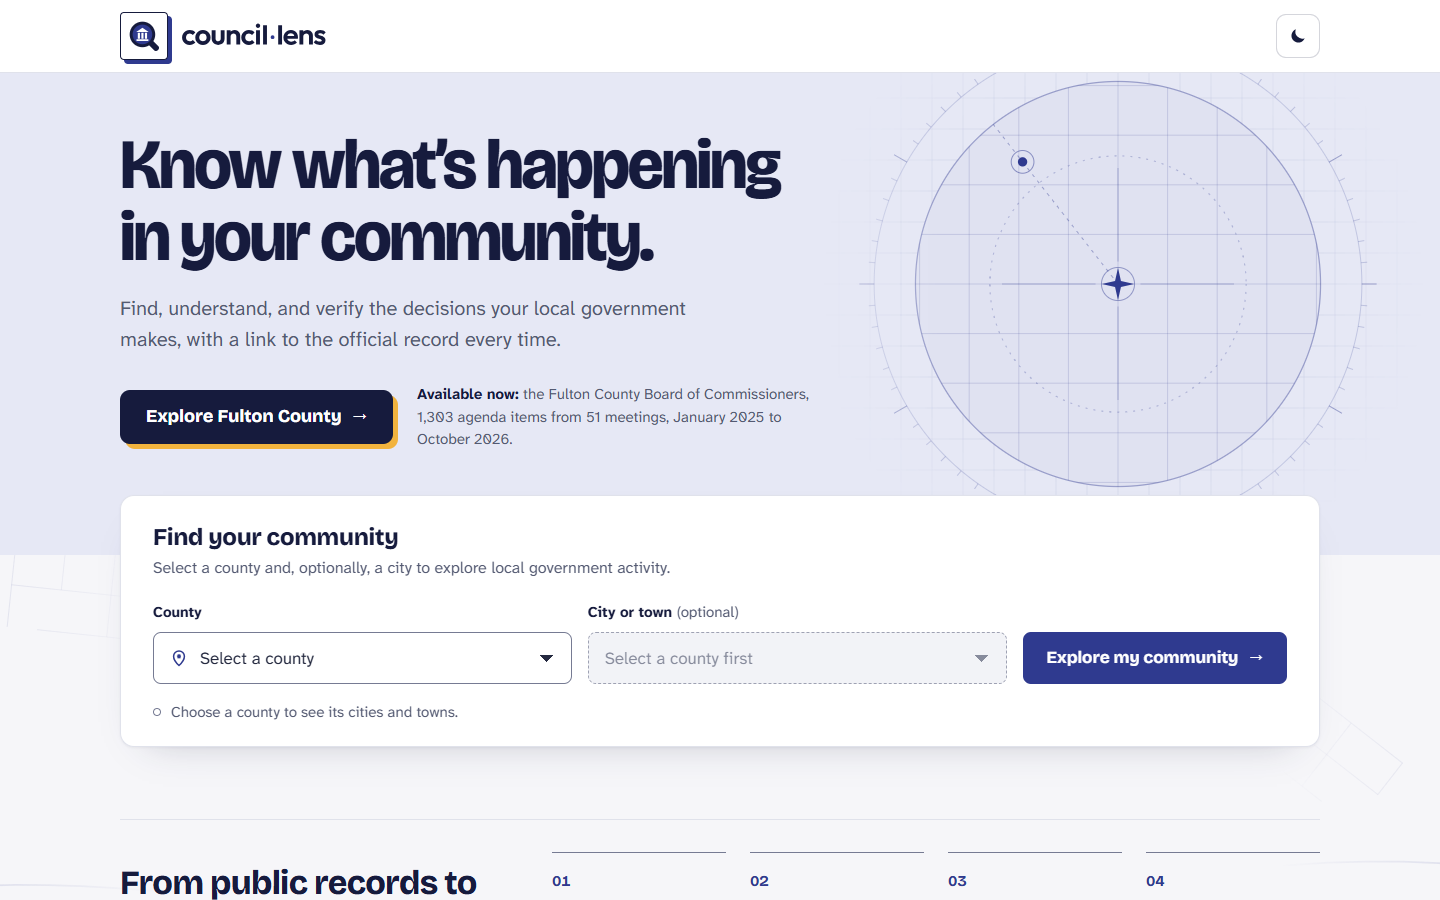
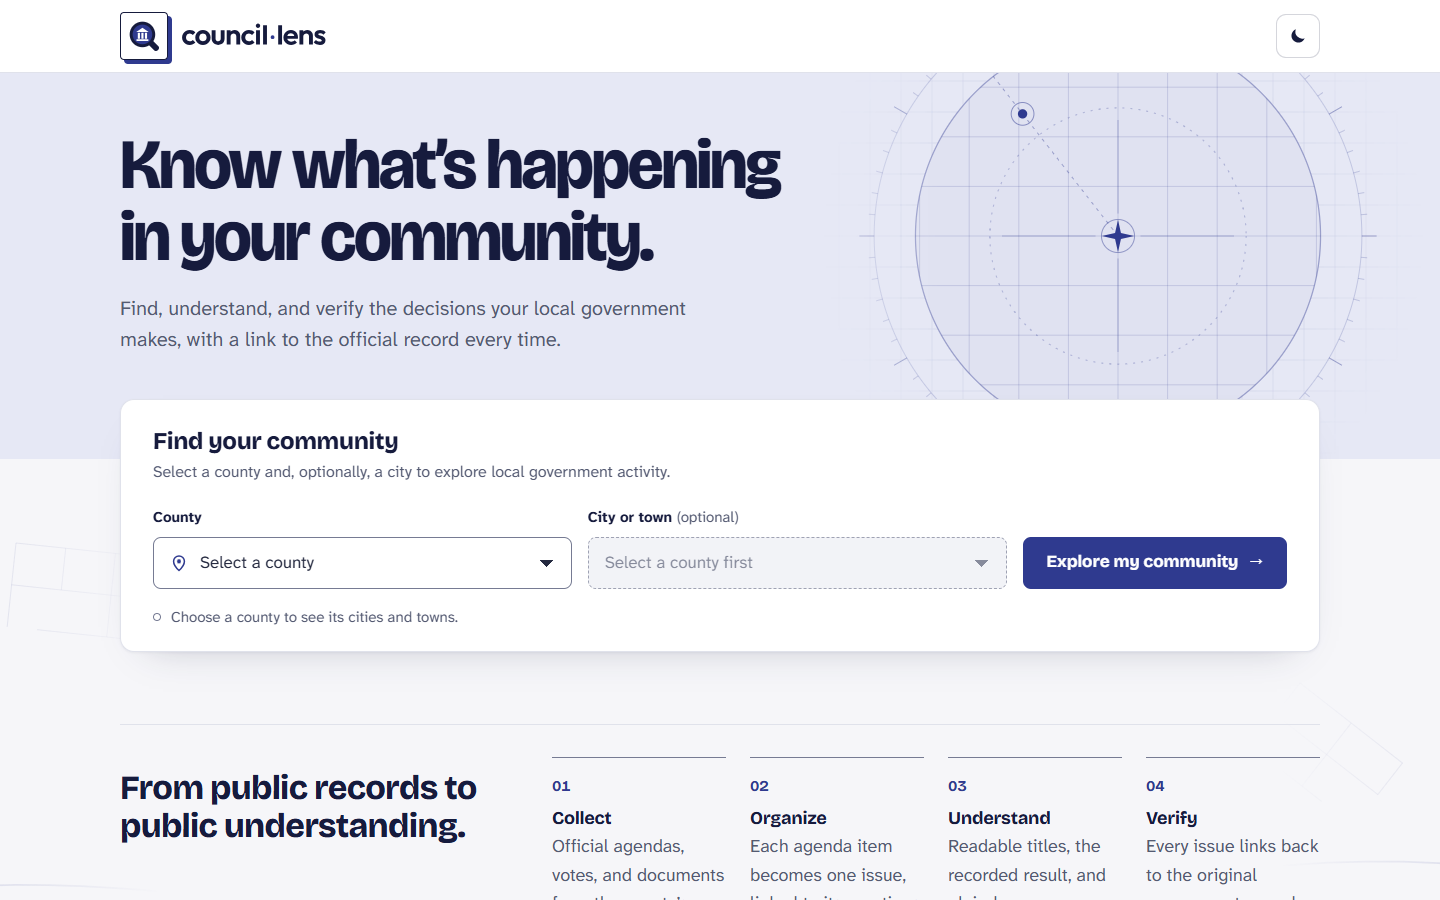
Home: remove the Explore Fulton County button and coverage note

diff --git a/Alpharetta_Civic_App_Team_Pack/src/styles/global.css b/Alpharetta_Civic_App_Team_Pack/src/styles/global.css
@@ -4723,82 +4723,7 @@ time {
   }
 }
 
-/* ==========================================================================
-   Home: a direct way into the county with records
-   The button borrows the logo's offset print block (a solid edge and a marigold block
-   behind it); pressing it sinks the button into the block, like the logo.
-   ========================================================================== */
-.pilot {
-  display: flex;
-  flex-wrap: wrap;
-  align-items: center;
-  gap: 16px 24px;
-  margin-top: 28px;
-}
-.pilot__go {
-  display: inline-flex;
-  align-items: center;
-  gap: 10px;
-  min-height: 54px;
-  padding: 0 26px;
-  border-radius: 10px;
-  background: var(--heading);
-  color: var(--surface);
-  font-family: var(--font-display);
-  font-weight: 750;
-  font-size: 1.125rem;
-  text-decoration: none;
-  white-space: nowrap;
-  box-shadow: 5px 5px 0 var(--accent);
-  transition:
-    transform 0.16s var(--ease),
-    box-shadow 0.16s var(--ease);
-}
-.pilot__go:hover {
-  color: var(--surface);
-  transform: translate(2px, 2px);
-  box-shadow: 3px 3px 0 var(--accent);
-}
-.pilot__go:active {
-  transform: translate(5px, 5px);
-  box-shadow: 0 0 0 var(--accent);
-}
-.pilot__go span {
-  transition: translate 0.16s var(--ease);
-}
-.pilot__go:hover span {
-  translate: 3px 0;
-}
-.pilot__note {
-  flex: 1 1 18rem;
-  max-width: 26rem;
-  font-size: 0.9375rem;
-  line-height: 1.5;
-  color: var(--band-soft);
-}
-.pilot__note strong {
-  color: var(--heading);
-}
-:root[data-theme='dark'] .pilot__note {
-  color: var(--ink);
-}
-@media (max-width: 599px) {
-  .pilot__go {
-    width: calc(100% - 5px);
-    justify-content: center;
-  }
-}
-@media (prefers-reduced-motion: reduce) {
-  .pilot__go,
-  .pilot__go span {
-    transition: none;
-  }
-}
-@media (forced-colors: active) {
-  .pilot__go {
-    border: 2px solid ButtonText;
-  }
-}
+/* ---------- Home: four steps ---------- */
 /* Four steps: two by two on tablets, one row on wide screens. */
 @media (min-width: 600px) and (max-width: 1099px) {
   .howto__list {

diff --git a/Alpharetta_Civic_App_Team_Pack/src/pages/GeorgiaHomePage.tsx b/Alpharetta_Civic_App_Team_Pack/src/pages/GeorgiaHomePage.tsx
@@ -1,9 +1,6 @@
-import { Link } from 'react-router-dom';
 import { LocationSelector } from '../components/LocationSelector';
 import { LensArtwork } from '../components/LensArtwork';
-import { FULTON_SNAPSHOT } from '../config/coverage';
-import { COUNTIES, DIRECTORY_SOURCE, MUNICIPALITIES, countyPath } from '../services/jurisdictions';
-import { formatDate } from '../services/format';
+import { COUNTIES, DIRECTORY_SOURCE, MUNICIPALITIES } from '../services/jurisdictions';
 import { usePageTitle } from '../services/usePageTitle';
 import { ArrowLabel } from '../components/SourceAction';
 
@@ -16,9 +13,7 @@ const STEPS = [
   { title: 'Verify', text: 'Every issue links back to the original government record.' },
 ];
 
-const monthYear = (iso: string) => formatDate(iso).replace(/ \d{1,2},/, '');
-
-/** Statewide front door: a direct way into the county with records, then a county and city chooser. */
+/** Statewide front door: choose a county and, optionally, a city. Shows no civic records itself. */
 export function GeorgiaHomePage() {
   usePageTitle(null);
   return (
@@ -33,15 +28,6 @@ export function GeorgiaHomePage() {
             <p className="hero__lede">
               Find, understand, and verify the decisions your local government makes, with a link to the official record every time.
             </p>
-            <div className="pilot">
-              <Link to={countyPath({ id: FULTON_SNAPSHOT.countyId })} className="pilot__go">
-                Explore Fulton County <span aria-hidden="true">→</span>
-              </Link>
-              <p className="pilot__note">
-                <strong>Available now:</strong> the Fulton County Board of Commissioners, {FULTON_SNAPSHOT.issues.toLocaleString('en-US')} agenda items
-                from {FULTON_SNAPSHOT.meetings} meetings, {monthYear(FULTON_SNAPSHOT.firstMeeting)} to {monthYear(FULTON_SNAPSHOT.lastMeeting)}.
-              </p>
-            </div>
           </div>
           <LocationSelector />
         </div>

diff --git a/Alpharetta_Civic_App_Team_Pack/src/services/dataIntegrity.test.ts b/Alpharetta_Civic_App_Team_Pack/src/services/dataIntegrity.test.ts
@@ -7,7 +7,6 @@ import documents from '../../data/documents.json';
 import { mockDataset } from '../test/mockDataset';
 import { findBrokenRelationships, type Dataset } from './civicData';
 import type { CivicDocument, Issue, Meeting } from '../types/civic';
-import { FULTON_SNAPSHOT } from '../config/coverage';
 
 const realDataset: Dataset = { meetings: meetings as Meeting[], issues: issues as Issue[], documents: documents as CivicDocument[] };
 
@@ -102,19 +101,3 @@ describe.each([
   });
 });
 
-describe('the home page coverage note', () => {
-  it('matches the records in data/', () => {
-    const dates = (meetings as Meeting[]).map((m) => m.date!).sort();
-    expect({
-      issues: issues.length,
-      meetings: meetings.length,
-      firstMeeting: dates[0],
-      lastMeeting: dates[dates.length - 1],
-    }).toEqual({
-      issues: FULTON_SNAPSHOT.issues,
-      meetings: FULTON_SNAPSHOT.meetings,
-      firstMeeting: FULTON_SNAPSHOT.firstMeeting,
-      lastMeeting: FULTON_SNAPSHOT.lastMeeting,
-    });
-  });
-});

diff --git a/Alpharetta_Civic_App_Team_Pack/src/pages/georgia.test.tsx b/Alpharetta_Civic_App_Team_Pack/src/pages/georgia.test.tsx
@@ -57,16 +57,9 @@ describe('Location chooser', () => {
     expect(options[1]).toHaveTextContent('Appling County');
     expect(options[159]).toHaveTextContent('Worth County');
     expect(city()).toBeDisabled();
+    expect(screen.queryByText(/Currently available|Available now/)).toBeNull();
   });
 
-  it('offers a direct way into Fulton County, the place with records, and says what it covers', () => {
-    renderAt('/');
-    expect(screen.getByRole('link', { name: /^Explore Fulton County/ })).toHaveAttribute('href', '/county/fulton');
-    expect(screen.getByText(/Available now:/).parentElement).toHaveTextContent(
-      'Available now: the Fulton County Board of Commissioners, 1,303 agenda items from 51 meetings, January 2025 to October 2026.',
-    );
-    expect(screen.getByText(/not a live feed/)).toBeInTheDocument();
-  });
 
   it('fills the city list from the chosen county, with "All of" the county first', async () => {
     renderAt('/');

diff --git a/Alpharetta_Civic_App_Team_Pack/src/config/coverage.ts b/Alpharetta_Civic_App_Team_Pack/src/config/coverage.ts
@@ -24,15 +24,3 @@ export const CIVIC_DATA_COVERAGE: Readonly<Record<string, RecordSource[]>> = {
 /** The county whose pages the app's original links (/archive, /alpharetta/…, /issues/…) now point to. */
 export const LEGACY_COUNTY_ID = 'fulton';
 
-/**
- * What the Fulton County snapshot in data/ contains, for the home page's coverage note. The
- * records are a prepared snapshot, not a live feed; dataIntegrity.test.ts fails if these
- * figures stop matching data/.
- */
-export const FULTON_SNAPSHOT = {
-  countyId: 'fulton',
-  issues: 1303,
-  meetings: 51,
-  firstMeeting: '2025-01-08',
-  lastMeeting: '2026-10-21',
-} as const;

diff --git a/Alpharetta_Civic_App_Team_Pack/README.md b/Alpharetta_Civic_App_Team_Pack/README.md
@@ -10,7 +10,7 @@ A student project for the Congressional App Challenge 2026. It helps Georgia res
 
 | Page | Route | What it does |
 |---|---|---|
-| Georgia home | `/` | An "Explore Fulton County" button straight into the county with records, with a note of what that snapshot covers; then a location chooser: county (all 159), then an optional city or town filtered to that county, with "All of <county>" first. The selection is kept in the URL (`/?county=fulton`), so refresh and Back keep it, and changing the county clears the city. Shows no records. |
+| Georgia home | `/` | Location chooser: county (all 159), then an optional city or town filtered to that county, with "All of <county>" first. The selection is kept in the URL (`/?county=fulton`), so refresh and Back keep it, and changing the county clears the city. Shows no records. |
 | Other counties | `/county/:countyId` | "Coming soon" on every sub-path (e.g. `/county/cobb/archive?q=…`), with links to the cities and towns in the county. No records. Unknown ids show "Location not found". |
 | Cities | `/:cityId/*` | Every city shows "Coming soon" on every sub-path; cities in Fulton County point to the Fulton County page. No records. |
 | Countywide (Fulton) | `/county/fulton` | Cover hero ("What's on the table in Fulton County") with an issue search and a panel showing the next meeting (when one is scheduled) and the latest decision; issues grouped by result, with keyword search and topic and status filters (kept in the URL, e.g. `/county/fulton?topic=transportation&status=approved`); issue and meeting lists are labelled "From the Fulton County Board of Commissioners"; each issue card links to its official record and, when it has a map point, to Near Me with that issue selected; upcoming and recent meetings with agenda PDF links. |

diff --git a/README.md b/README.md
@@ -18,7 +18,7 @@ Built for the Congressional App Challenge 2026.
 
 | Page | What it does |
 |---|---|
-| Home | "Explore Fulton County" leads straight to the county with records; a county and city chooser covers the rest of Georgia. |
+| Home | A county and city chooser for all of Georgia; choosing Fulton County opens the county with records. |
 | Countywide | Every issue grouped by result (still being decided, approved, denied, withdrawn), with search and topic and status filters. |
 | Issue page | A readable title, the recorded result and vote, the meetings where it came up, a plain-language explanation for 193 notable items (the county's own agenda wording, labeled as a quote, for the rest), its documents, and links to the official records. |
 | Near Me | The 20 issues nearest one public starting point (the Fulton County Government Center) on a map and a numbered list. Pins are approximate, placed from street addresses in county documents. The app never asks for anyone's address or location. |
